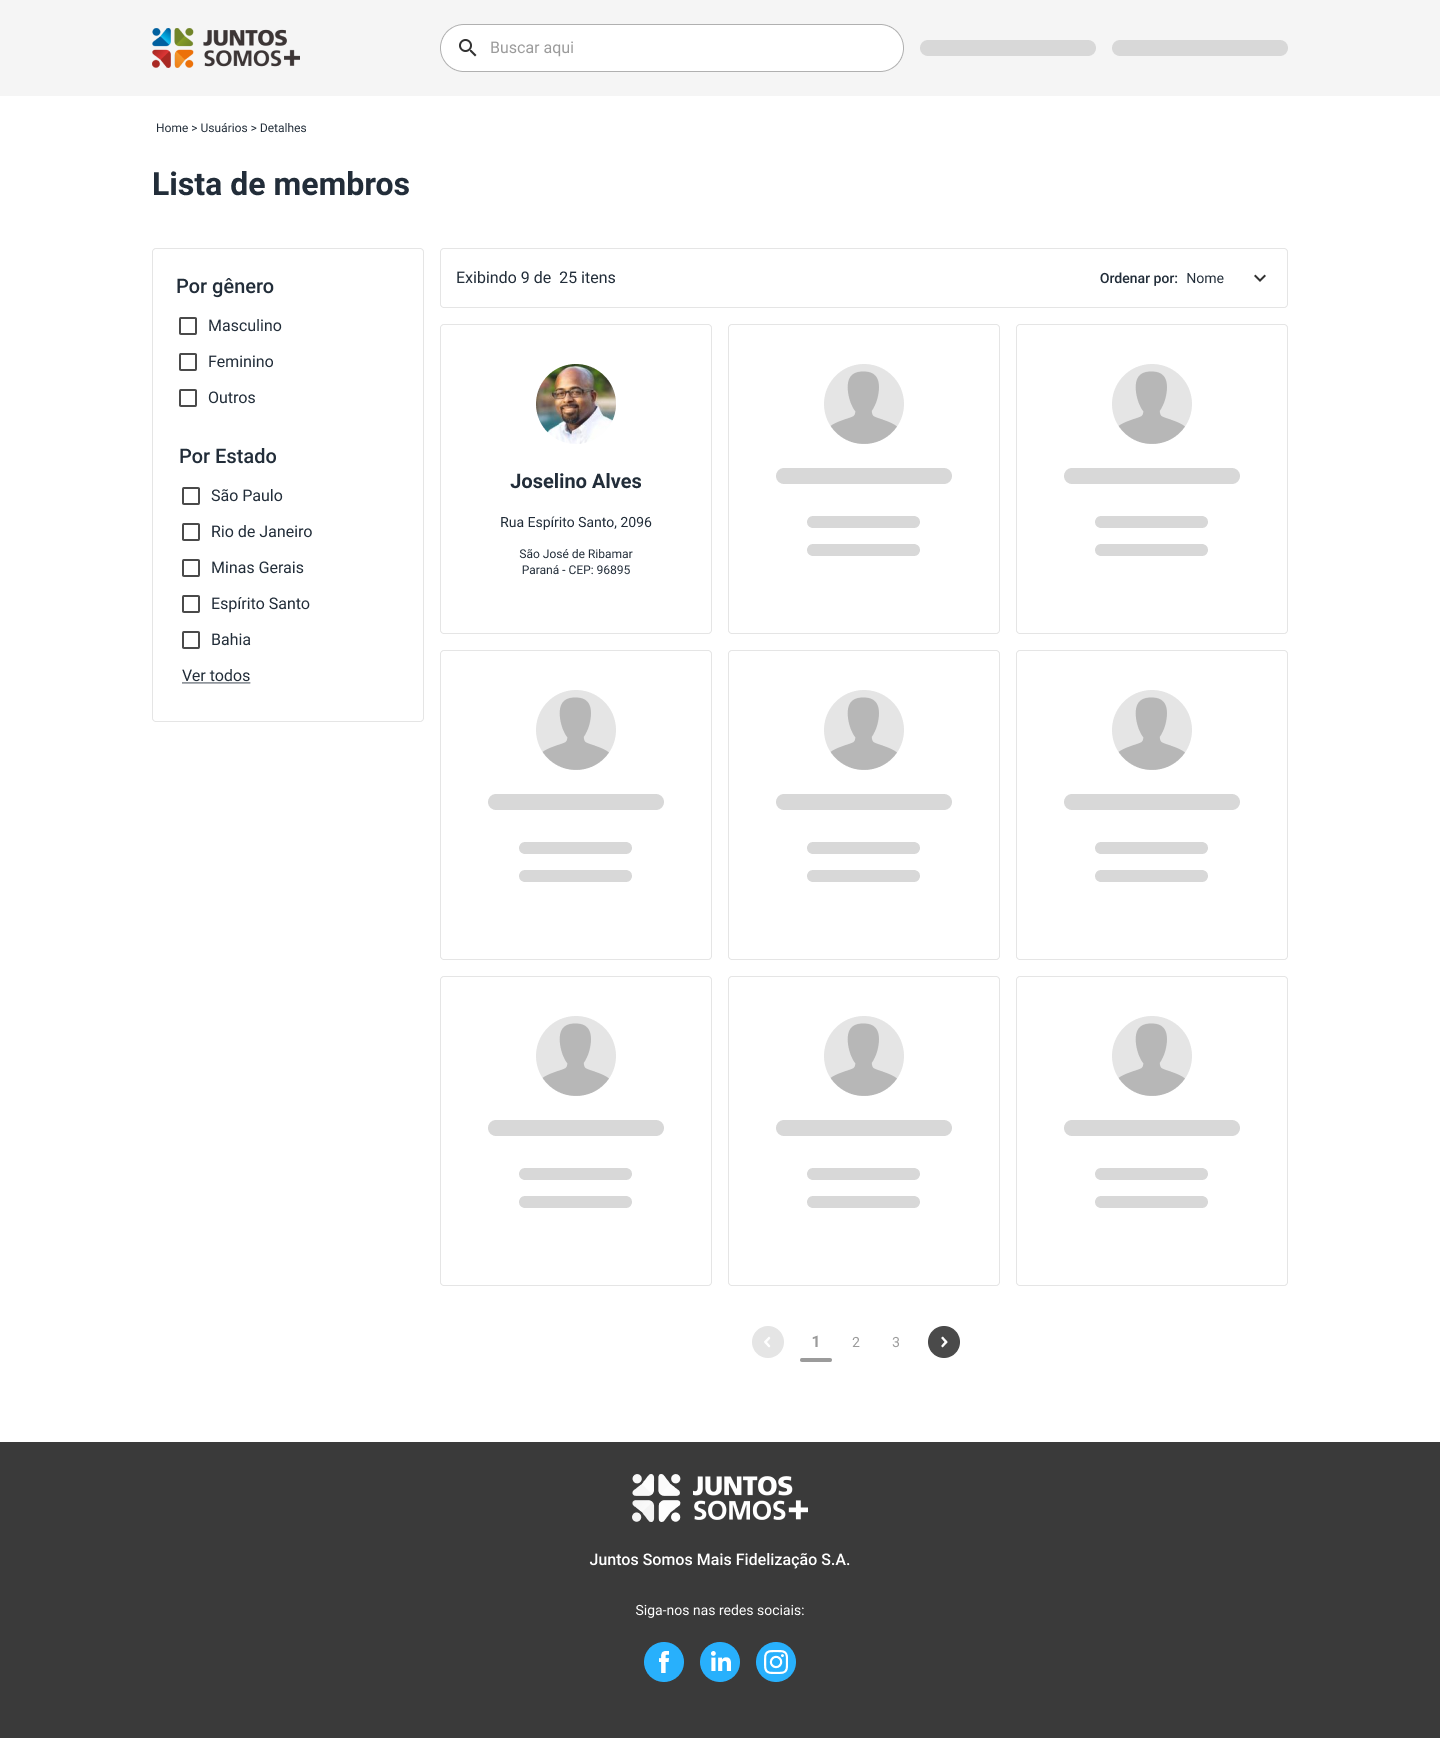
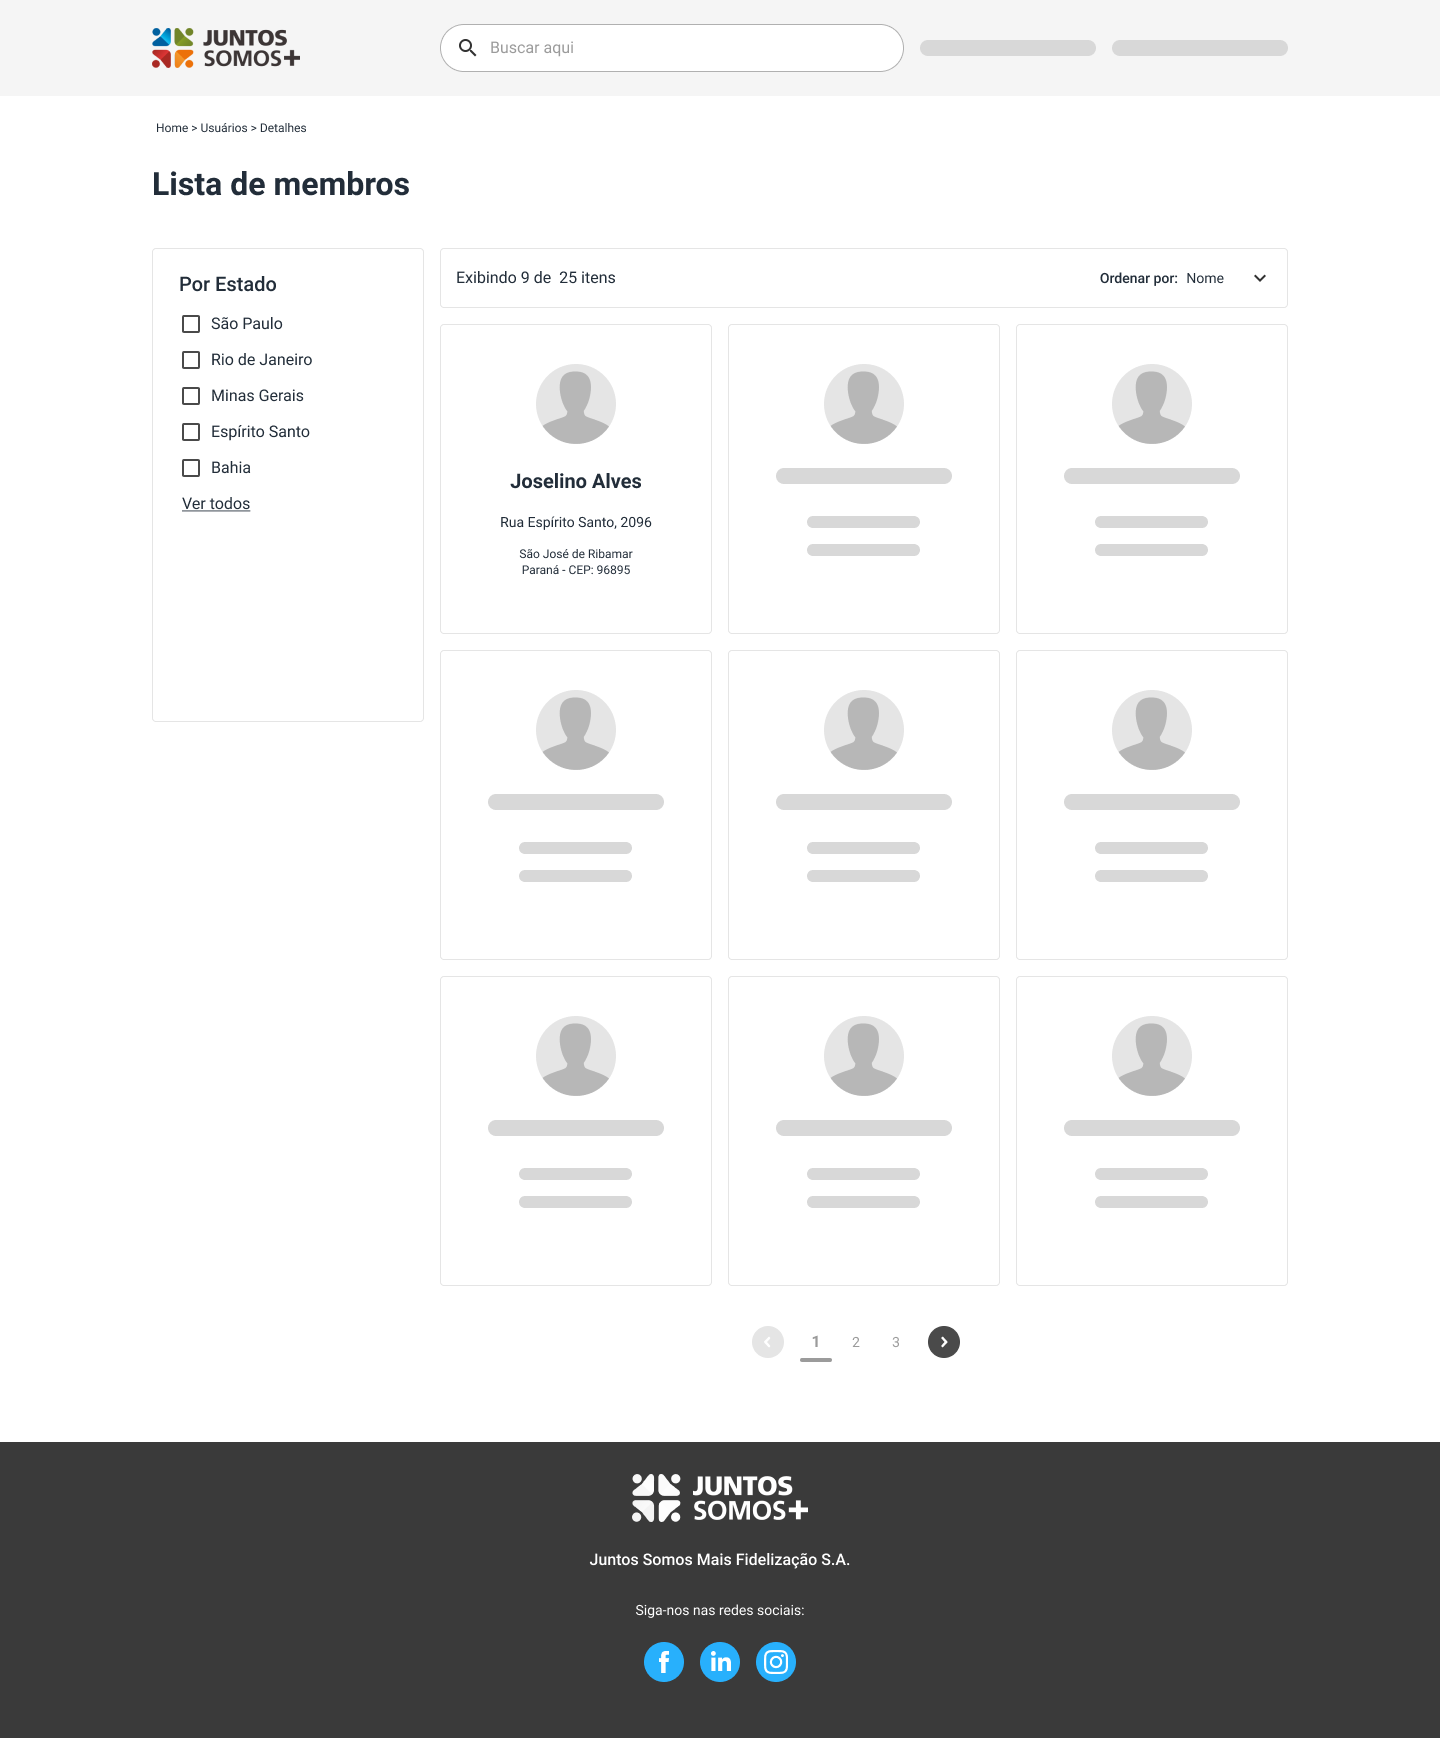
docs: update challenge

Changed region(s): [[0.125, 0.1554, 0.2188, 0.3107], [0.375, 0.1864, 0.4375, 0.2796], [0.125, 0.3418, 0.1875, 0.4039]]

diff --git a/README.md b/README.md
@@ -30,8 +30,7 @@ The logo is the same as the one on the repository.
 
 You **should** develop:
 
-- Filter by customer gender;
-- Filter by customer state;
+- Filter by state;
 - Search by name and/or last name;
 - Pagination to navigate between cards;
 - Navigation when clicking on customer cards;
